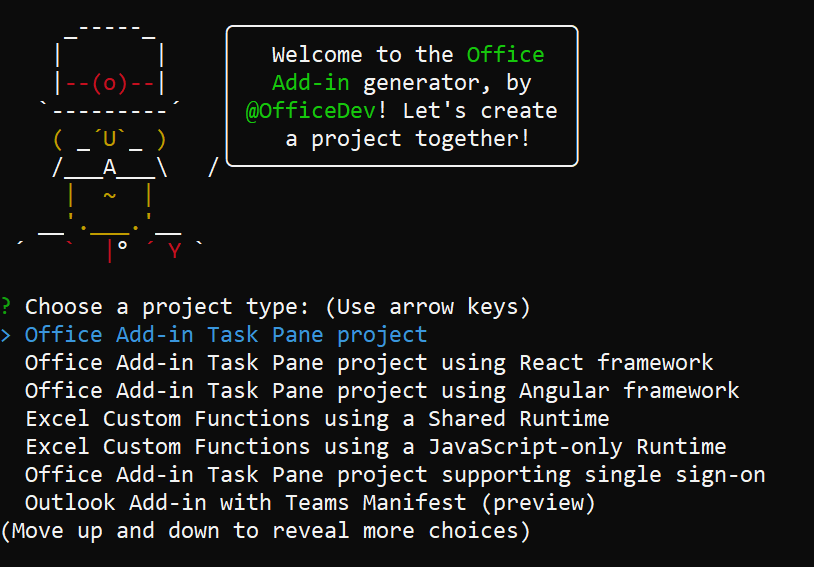
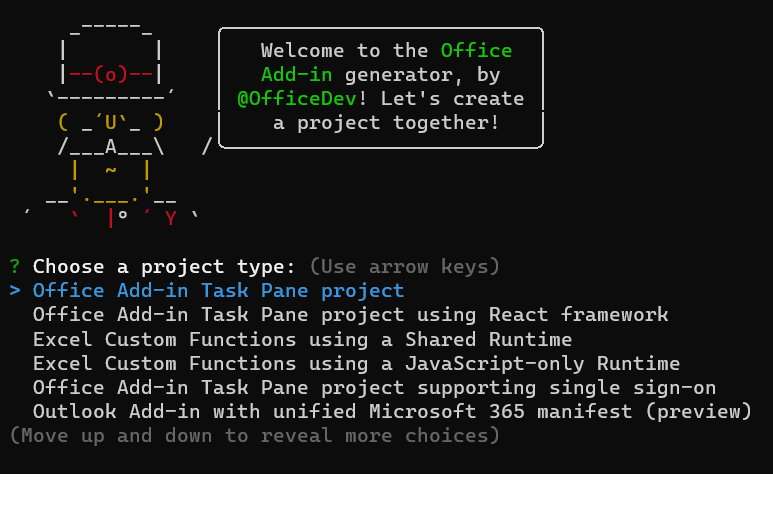
[All Hosts] (yo office) removes Angular option from Yo Office

diff --git a/docs/develop/yeoman-generator-overview.md b/docs/develop/yeoman-generator-overview.md
@@ -2,7 +2,7 @@
 title: Create Office Add-in projects using the Yeoman Generator
 description: Learn how to create Office Add-in projects using the Yeoman generator for Office Add-ins.
 ms.topic: tutorial
-ms.date: 05/20/2023
+ms.date: 05/26/2023
 ms.localizationpriority: high
 ---
 
@@ -42,10 +42,9 @@ yo office
 
 A lot needs to load, so it may take 20 seconds before the tool starts. The tool asks you a series of questions. For some, you just type an answer to the prompt. For others, you're given a list of possible answers. If given a list, select one and then select Enter.
 
-The first question asks you to choose between eight types of projects. The options are:
+The first question asks you to choose between several types of projects. The options are:
 
 - **Office Add-in Task Pane project**
-- **Office Add-in Task Pane project using Angular framework**
 - **Office Add-in Task Pane project using React framework**
 - **Excel Custom Functions using a Shared Runtime**
 - **Excel Custom Functions using a JavaScript-only Runtime**
@@ -88,7 +87,7 @@ If the creation is successful, you'll see a **Congratulations!** message in the 
 This option creates only a manifest for an add-in. The resulting project doesn't have a Hello World add-in, any of the scripts, or any of the dependencies. Use this option in the following scenarios.
 
 - You want to use different tools from the ones a Yeoman generator project installs and configures by default. For example, you want to use a different bundler, transpiler, task runner, or development server.
-- You want to use a web application development framework, other than Angular or React, such as Vue.
+- You want to use a web application development framework, other than React, such as Vue.
 
 For an example of using the generator with the manifest-only option, see [Use Vue to build an Excel task pane add-in](../quickstarts/excel-quickstart-vue.md).
 

diff --git a/docs/develop/develop-overview.md b/docs/develop/develop-overview.md
@@ -2,7 +2,7 @@
 title: Develop Office Add-ins
 description: An introduction to developing Office Add-ins.
 ms.topic: overview
-ms.date: 05/25/2022
+ms.date: 05/26/2023
 ms.localizationpriority: high
 ---
 
@@ -29,7 +29,7 @@ The Yeoman generator for Office Add-ins can be used to create a Node.js Office A
 - Word
 - Excel custom functions
 
-Create your project using HTML, CSS and JavaScript (or TypeScript), or using Angular or React. For whichever framework you choose, you can choose between JavaScript and Typescript as well. For more information about creating add-ins with the generator, see [Yeoman generator for Office Add-ins](yeoman-generator-overview.md).
+Create your project using HTML, CSS and JavaScript (or TypeScript), or using React. If you choose React, you can choose between JavaScript and Typescript as well. For more information about creating add-ins with the generator, see [Yeoman generator for Office Add-ins](yeoman-generator-overview.md).
 
 ### Visual Studio
 
